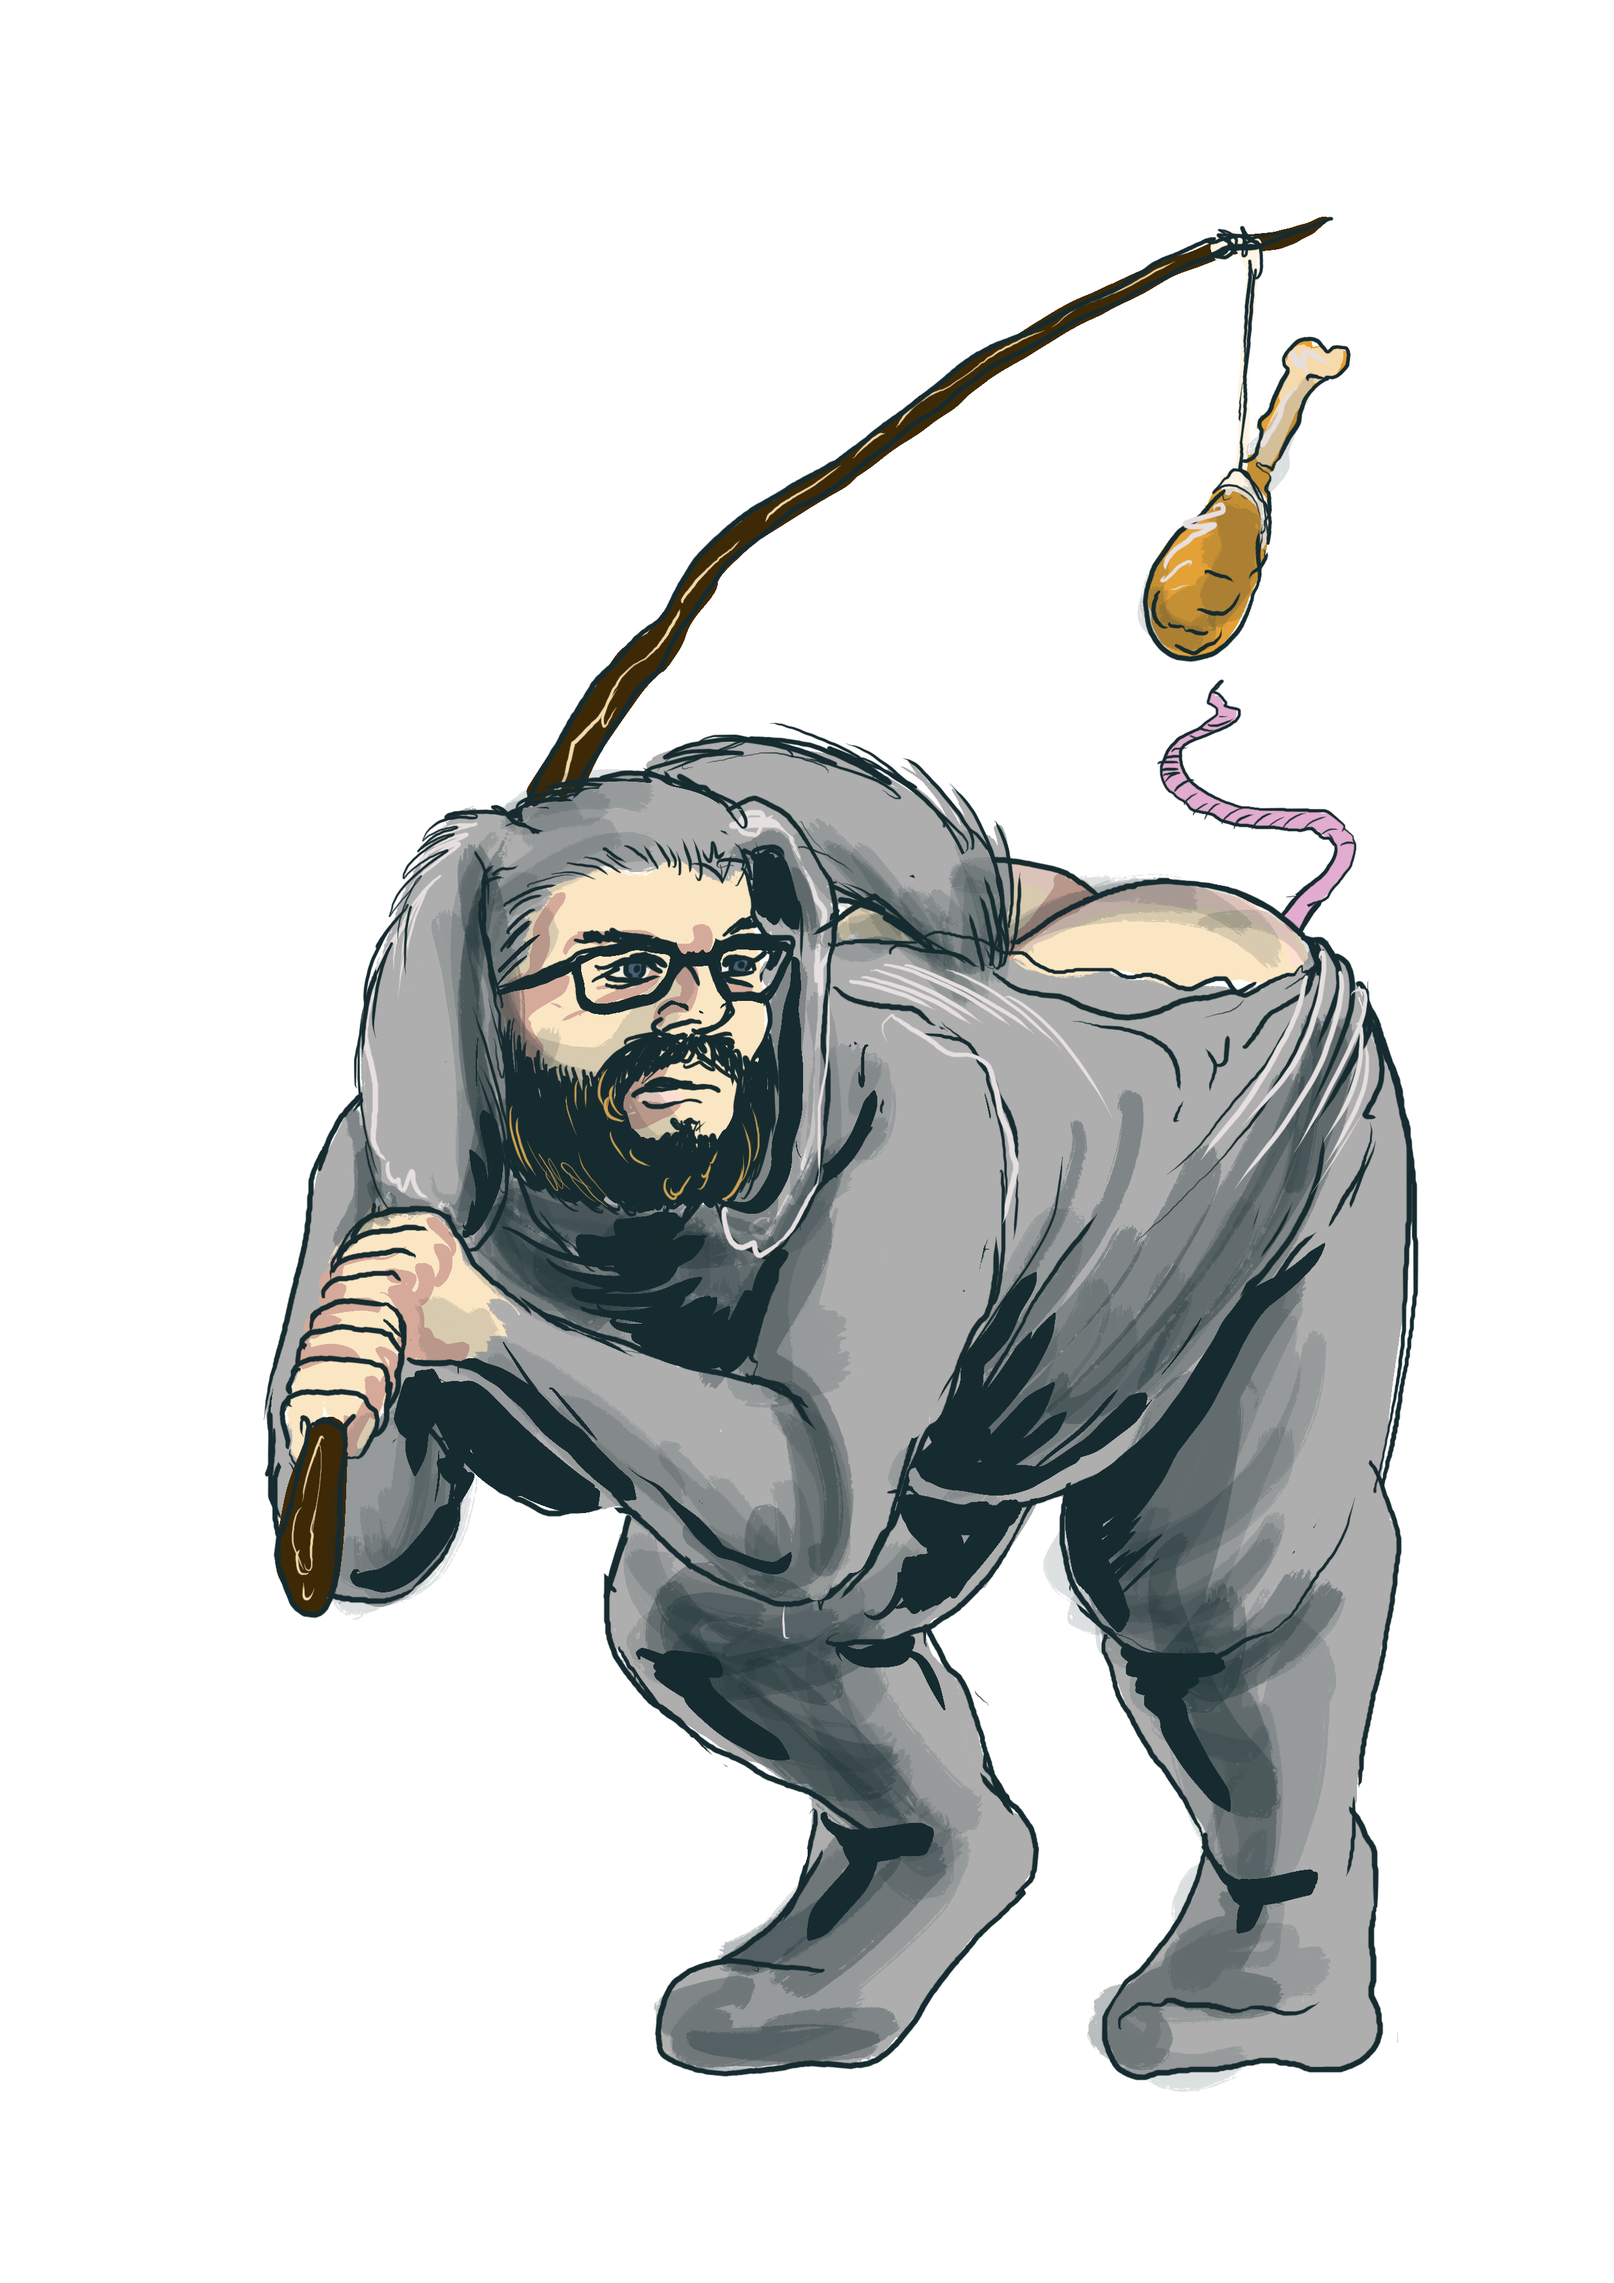
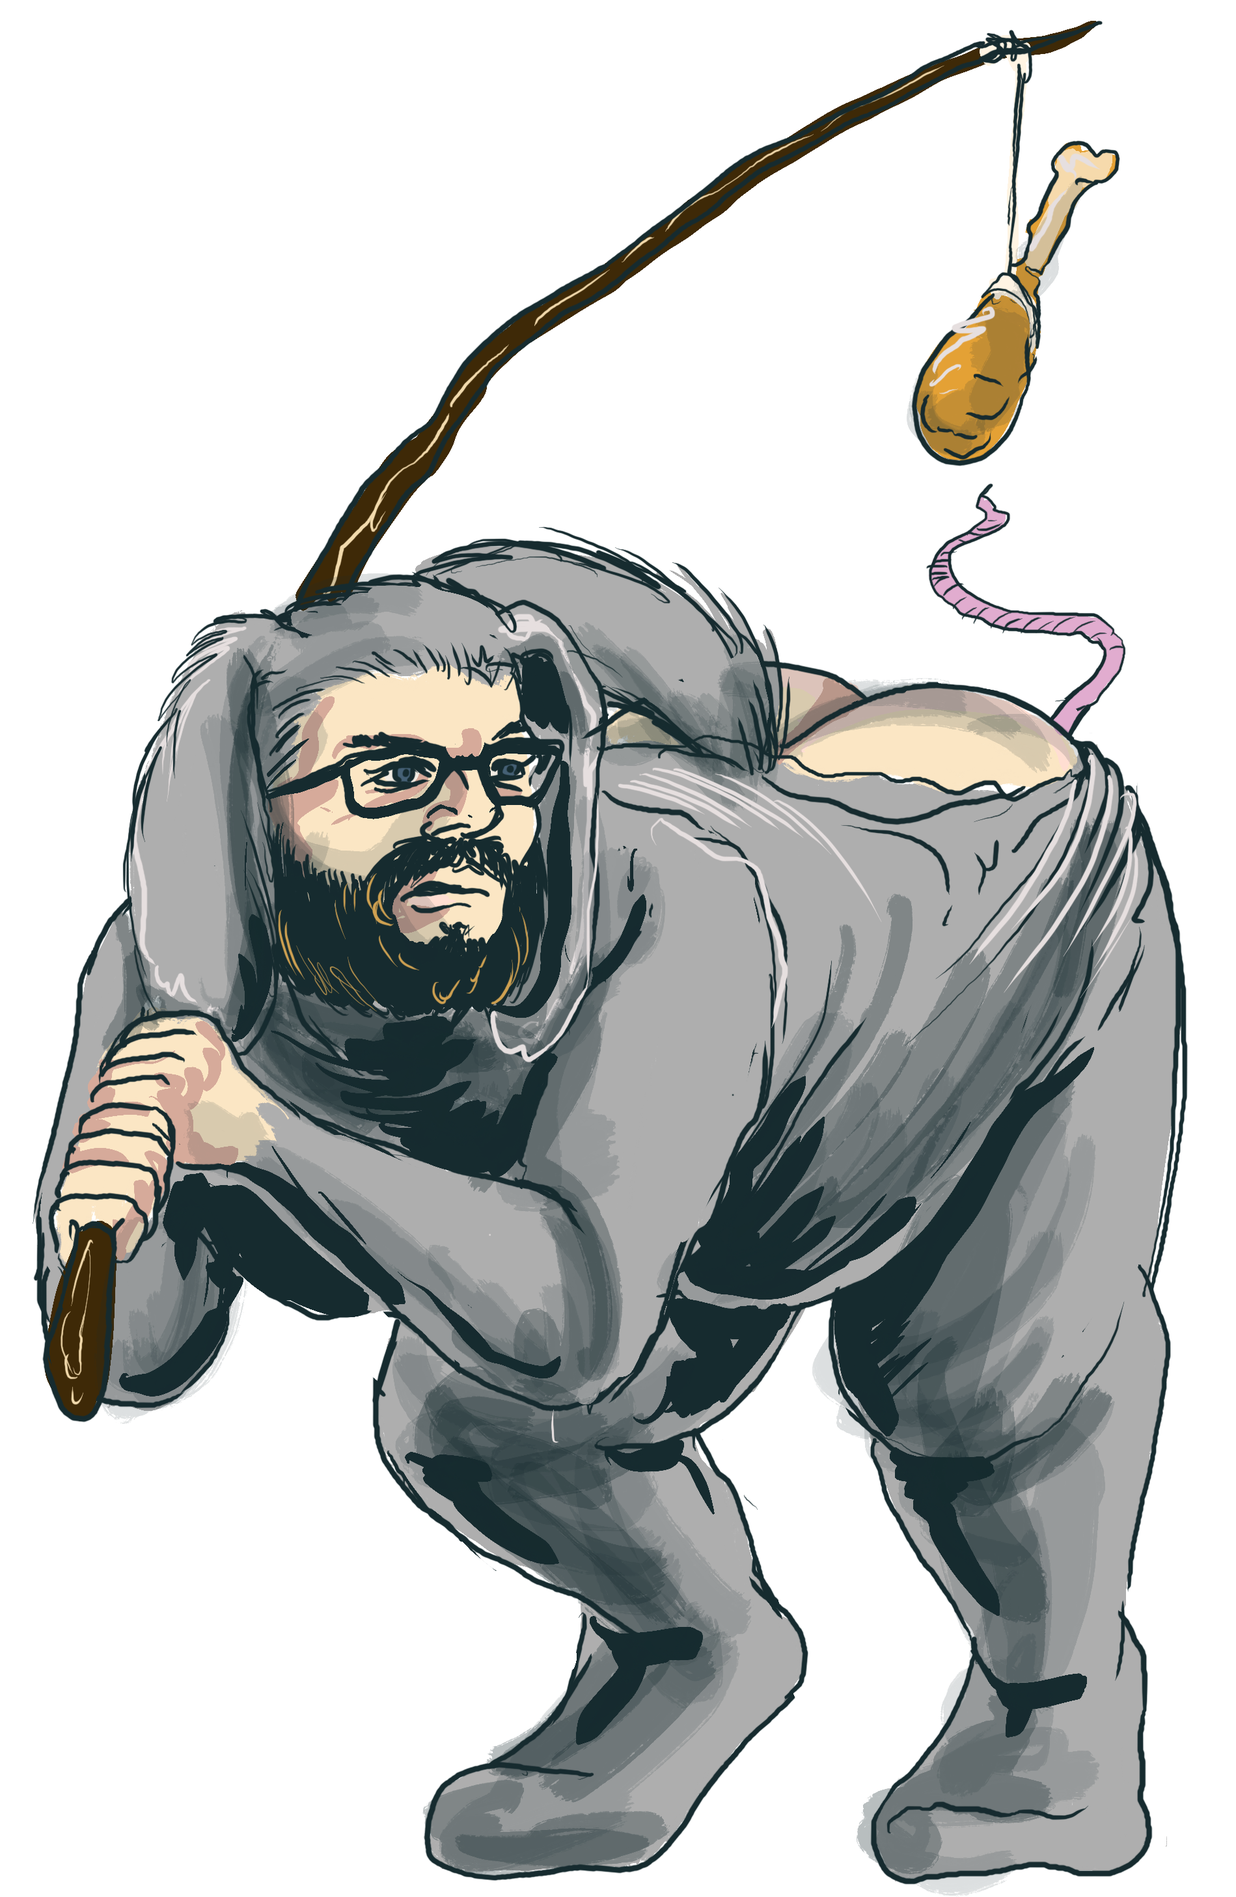
images cropped and home styling improved

diff --git a/components/AboutDan.tsx b/components/AboutDan.tsx
@@ -10,7 +10,6 @@ Nisl suscipit adipiscing bibendum est. Amet est placerat in egestas erat imperdi
 
 const TitleText = styled.h2`
   text-transform: uppercase;
-  text-align: right;
 
   ${({ theme }) => theme.media.md} {
     font-size: ${({ theme }) => theme.typography.scale.h3};
@@ -33,27 +32,31 @@ const TitleAndImage = styled.div`
   }
 `;
 
-const ContentImage = styled.img<{ height?: string; position?: string }>`
+const CopyAndTitle = styled.div`
+  display: flex;
+  flex-direction: column;
+  justify-content: center;
+`
+
+const ContentImage = styled.img<{ height?: string; width?: string, position?: string }>`
   width: 250px;
   height: ${(props) => (props.height ? props.height : "100%")};
+  width: ${(props) => (props.width ? props.width : "100%")};
   object-fit: cover;
-  object-position: ${(props) => (props.position ? props.position : "0")};
+  object-position: ${(props) => (props.position ? props.position : null)};
 
   ${({ theme }) => theme.media.lg} {
-    width: 150px;
-    object-position: -20px -20px;
-    height: 50px;
+    width: 100%;
+    height: 100px;
+    object-position: 0px -120px;
     transform: scale(1.8);
   }
   ${({ theme }) => theme.media.sm} {
-    width: 75px;
-    object-position: 0 0;
-    transform: scale(2.5);
+    width: 100%;
+    object-position: 0px -30px;
   }
   ${({ theme }) => theme.media.xs} {
-    width: 50px;
-    object-position: 0 5px;
-    transform: scale(3.3);
+    width: 100%;
   }
 `;
 
@@ -64,10 +67,12 @@ export const AboutDan = () => {
         {<title>Daniel Powell - About Dan</title>}
       </Head>
       <TitleAndImage>
-        <ContentImage src={danMic.src} height="80vh" position="-20px -40px" alt="An illustration by Robert Maltby of Dan holding a microphone" />
-        <TitleText>{"About Dan"}</TitleText>
+        <ContentImage src={danMic.src} height="60vh" width="10vw" alt="An illustration by Robert Maltby of Dan holding a microphone" />
       </TitleAndImage>
-      <p>{loremIpsumTwo}</p>
+      <CopyAndTitle>
+        <TitleText>{"About Dan"}</TitleText>
+        <p>{loremIpsumTwo}</p>
+      </CopyAndTitle>
     </ImageAndCopy>
   );
 };

diff --git a/src/components/QuotesCarousel.tsx b/src/components/QuotesCarousel.tsx
@@ -6,7 +6,6 @@ const CarouselWrapper = styled.div`
   align-content: center;
   max-width: 800px;
   margin: 0 auto;
-  padding: 20px 0;
   position: relative;
   overflow: hidden;
 `;
@@ -22,7 +21,6 @@ const Slide = styled.div`
   text-align: center;
   margin-top: auto;
   margin-bottom: auto;
-  padding: 20px;
 `;
 
 const ArrowButton = styled.button`

diff --git a/src/components/NavBar/NavBar.styles.tsx b/src/components/NavBar/NavBar.styles.tsx
@@ -53,7 +53,8 @@ export const NavItem = styled.li`
   font-family: ${({ theme }) => theme.typography.fonts.genericHeader};
 
   color: ${({ theme }) => theme.colors.textInverted};
-  margin-right: 24px;
+  margin-right: 18px;
+  margin-left: 18px;
   filter: drop-shadow(0px 4px 4px rgba(0, 0, 0, 0.25));
   &:hover {
     cursor: pointer;
